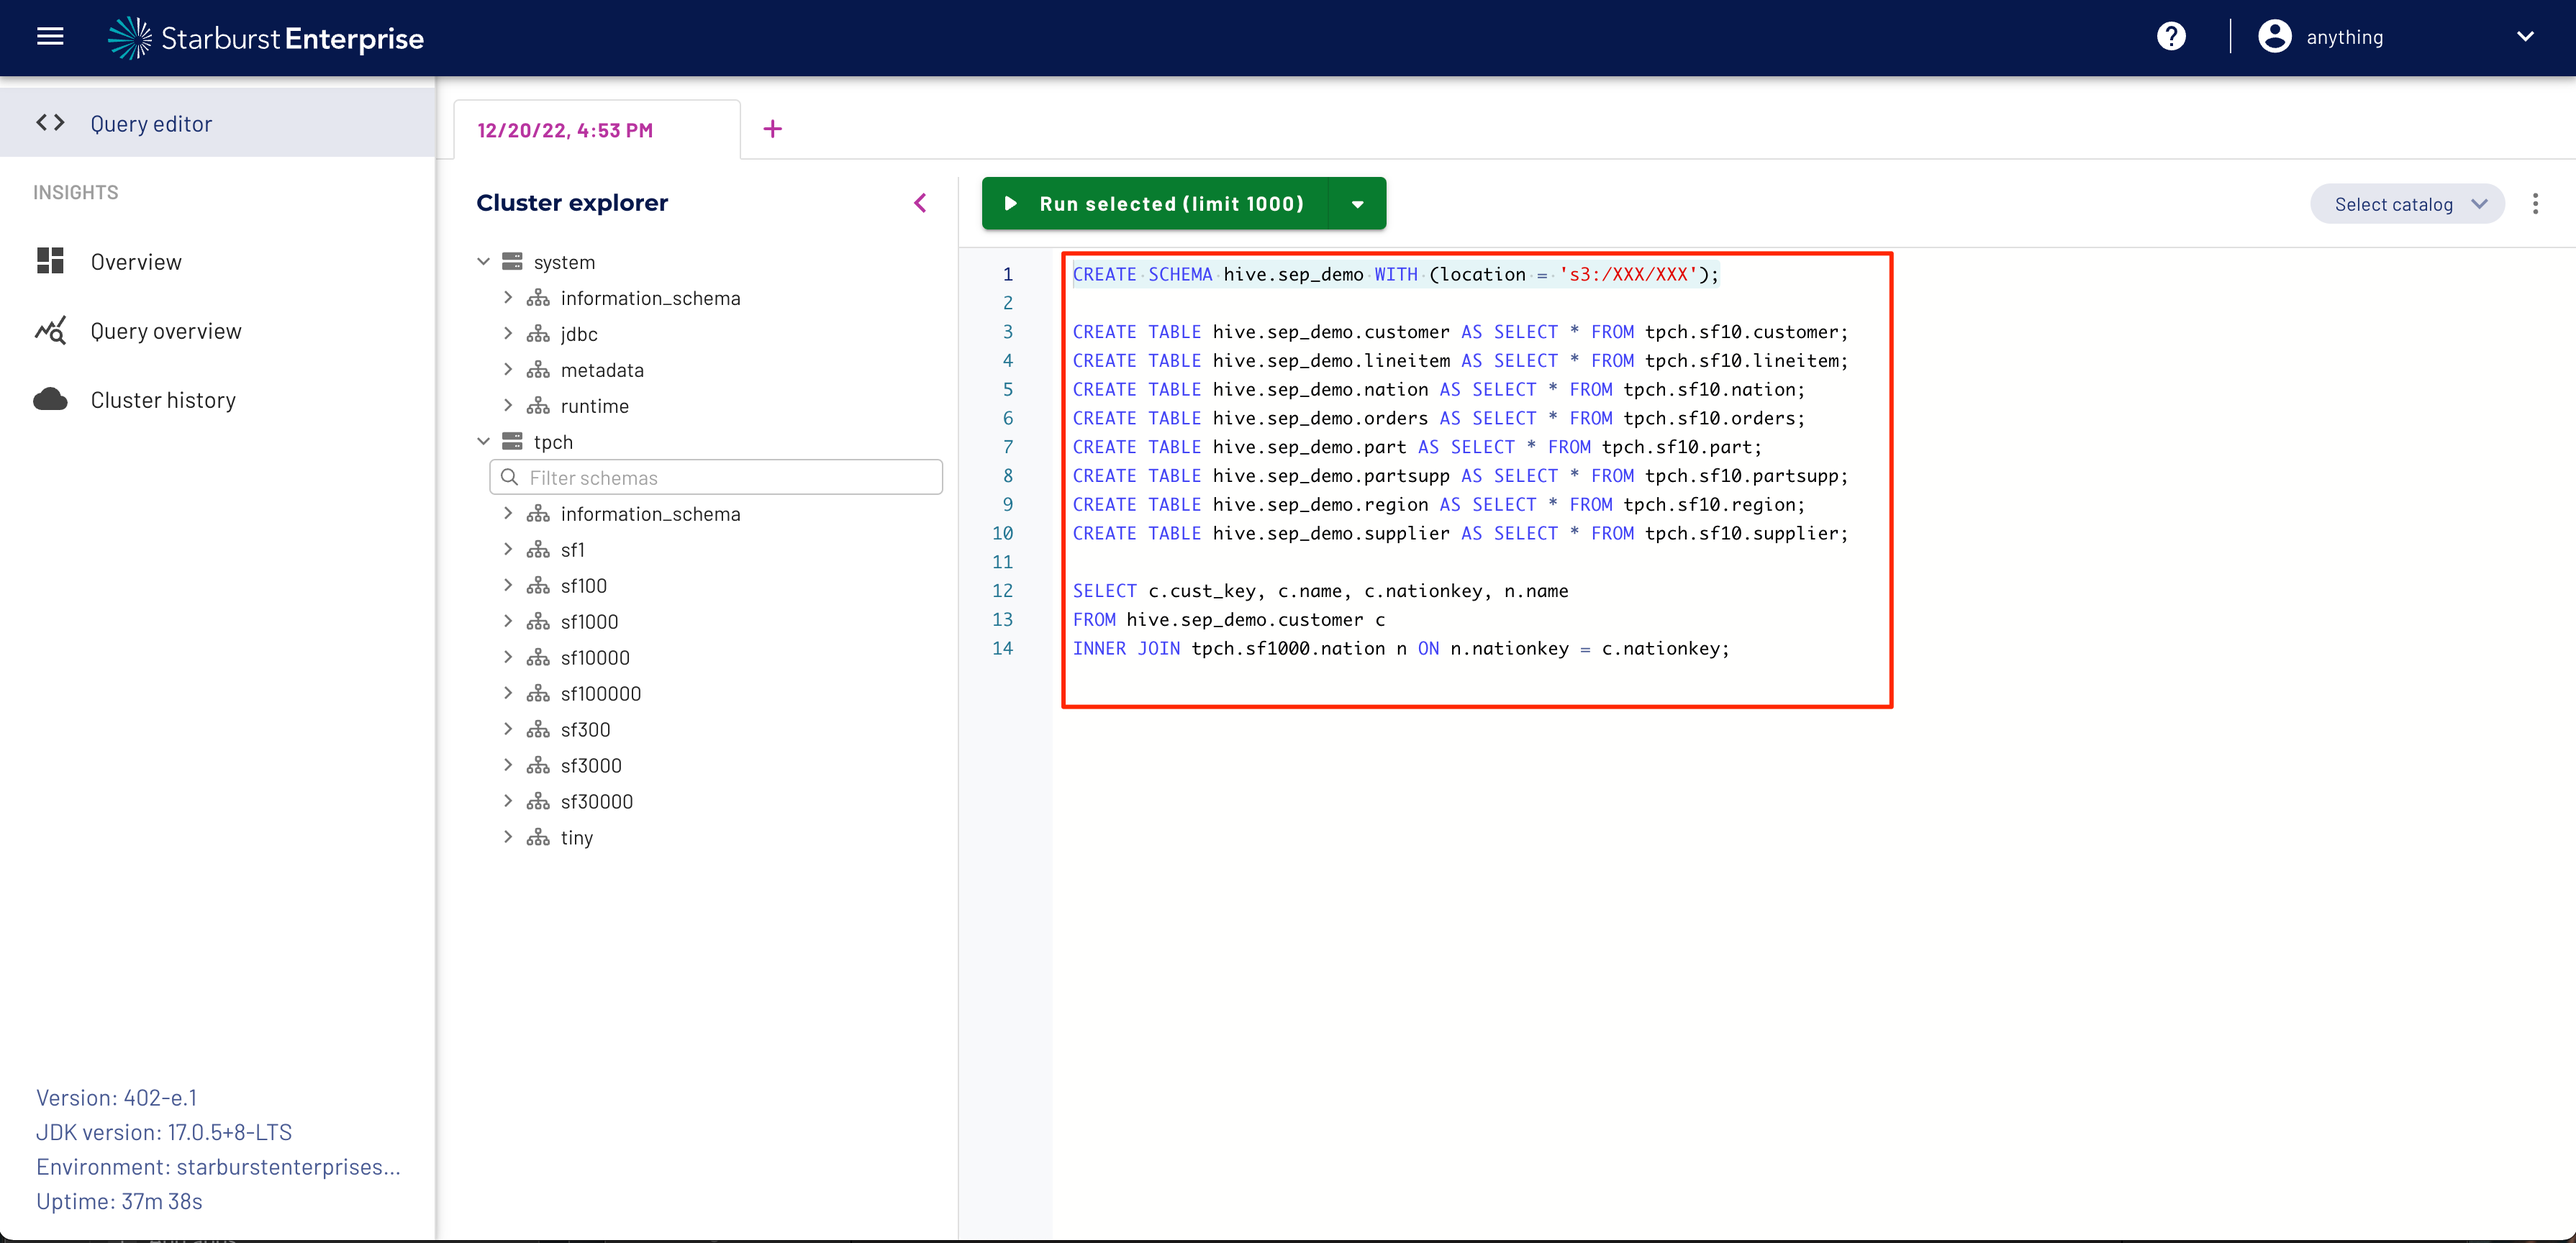
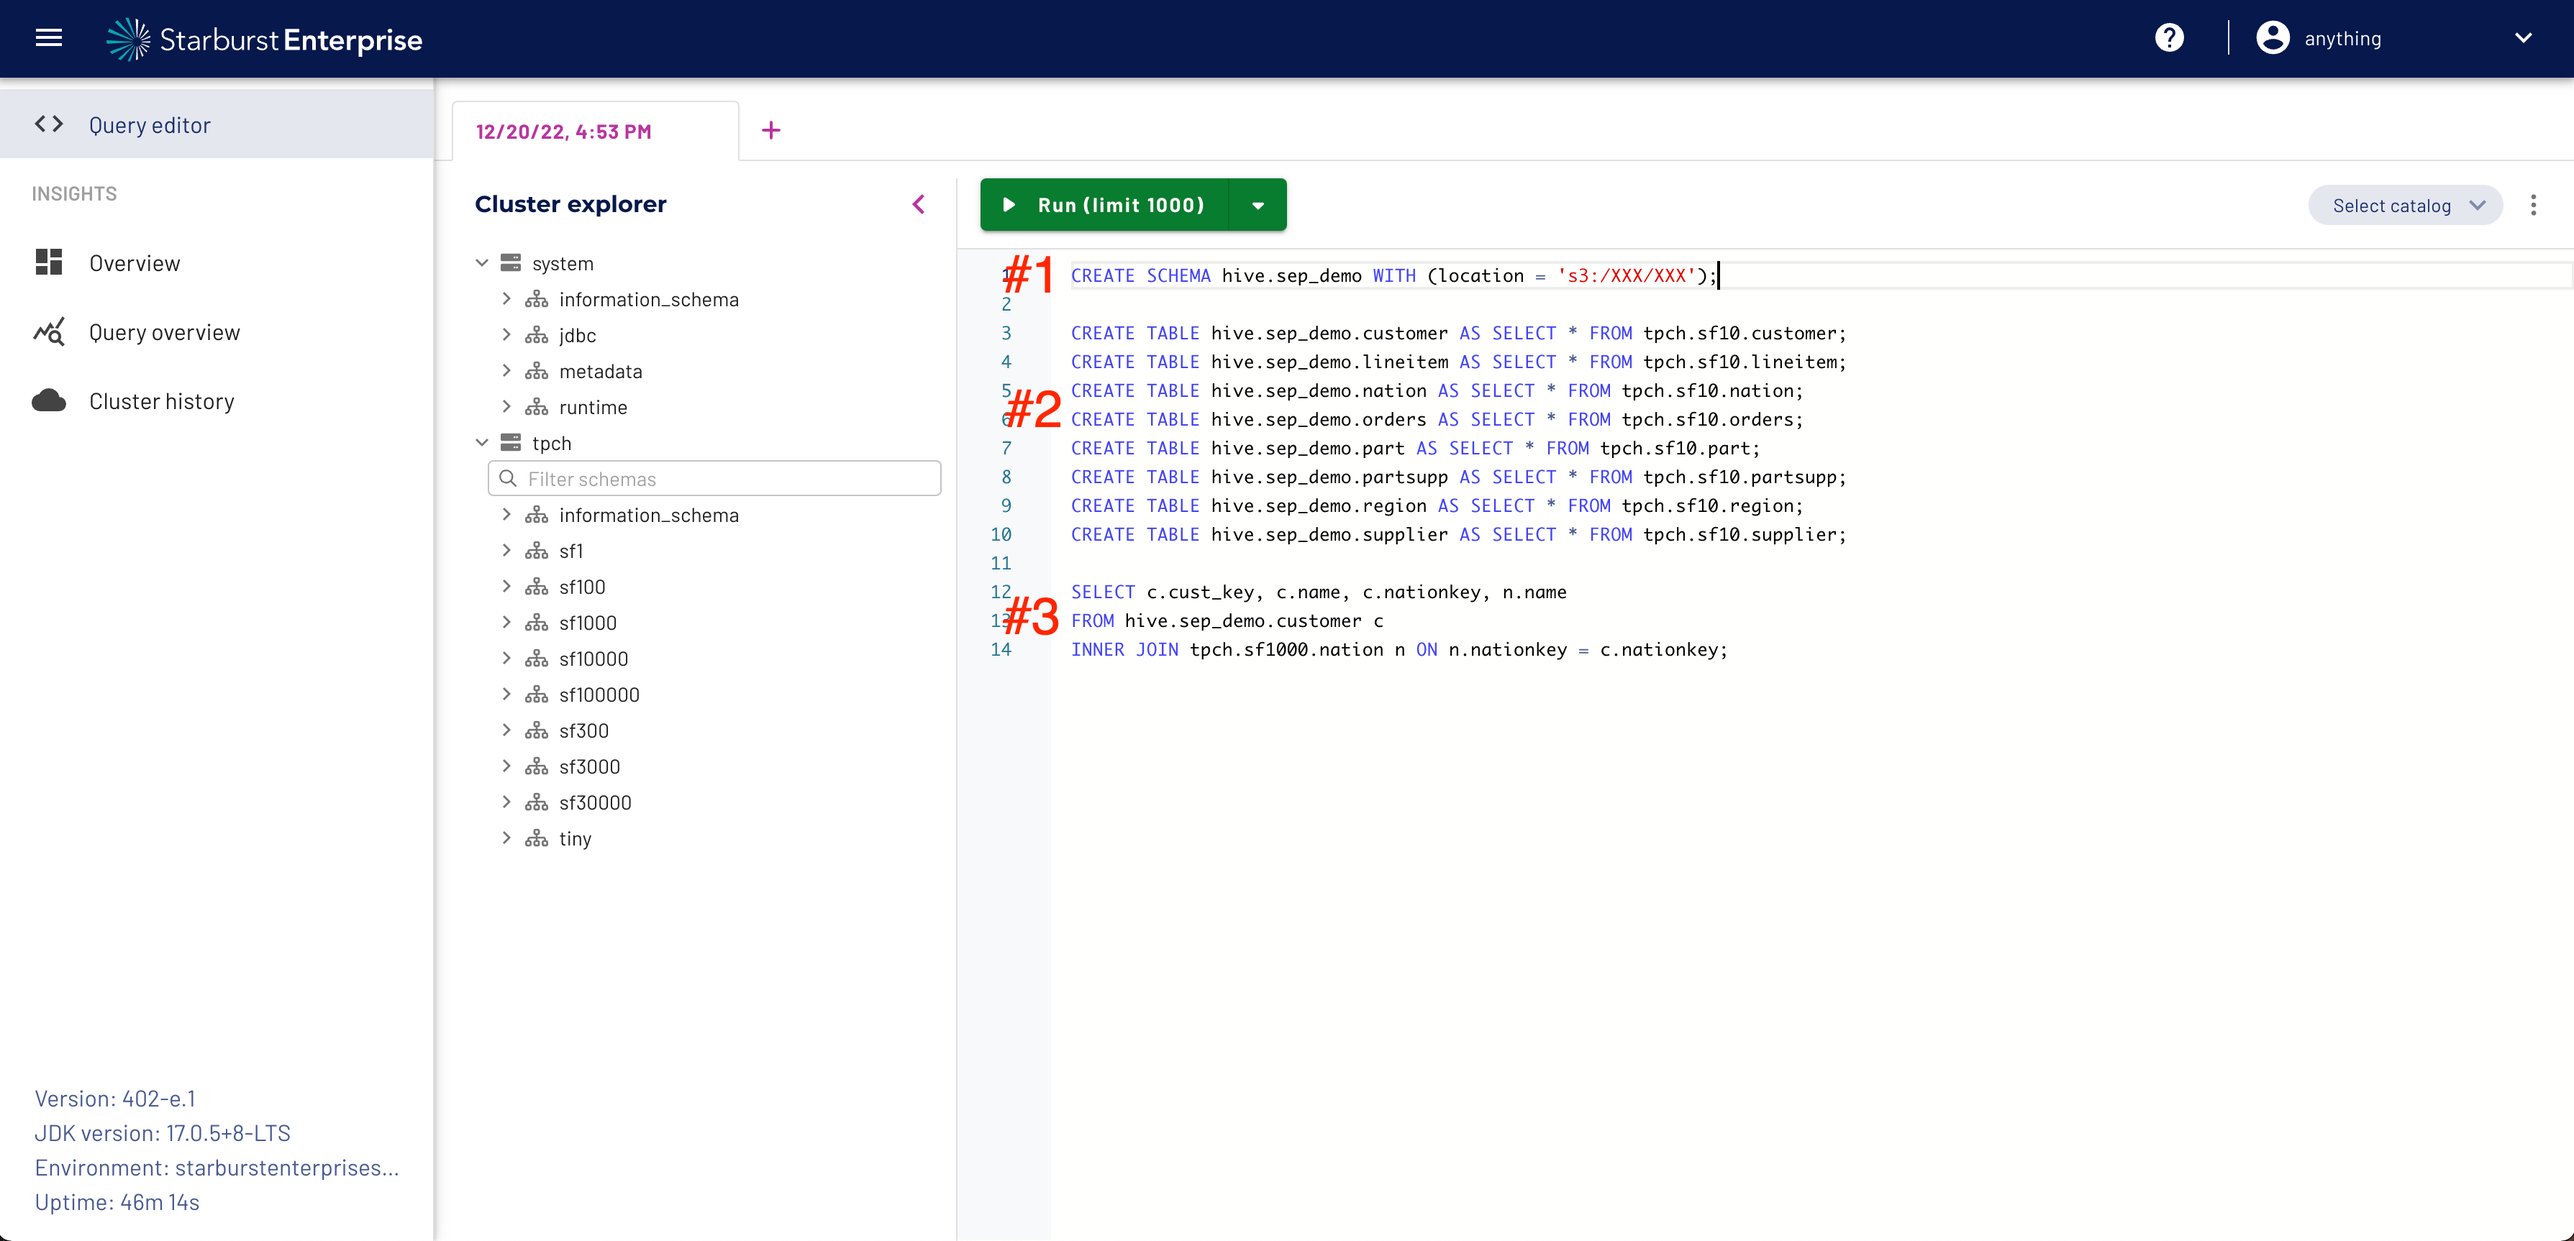
Updated queries screenshot.

diff --git a/getting-started/README.md b/getting-started/README.md
@@ -62,13 +62,13 @@ From the **Query Editor** page in the Starburst Enterprise web UI, run the follo
 ![Starburst Data Copy SQL](../images/sep_data_queries.png)
 
 
-To copy data from the TPCH data source into a new data source, you first need to create a schema in the destination data source to store the data.  Below is an example of copying data from TPCH into an S3 bucket using Starburst's Hive connector.  The location you specify will correspond to the object storage location where the data will be written.  In this example, it is an S3 bucket.  Please note that the "WITH location" property is only required when using the Hive, Iceberg or Deltalake connectors.  For all other data sources, follow the standard procedures for creating a schema in that data source.
+(1) To copy data from the TPCH data source into a new data source, you first need to create a schema in the destination data source to store the data.  Below is an example of copying data from TPCH into an S3 bucket using Starburst's Hive connector.  The location you specify will correspond to the object storage location where the data will be written.  In this example, it is an S3 bucket.  Please note that the "WITH location" property is only required when using the Hive, Iceberg or Deltalake connectors.  For all other data sources, follow the standard procedures for creating a schema in that data source.
 ````
 CREATE SCHEMA hive.sep_demo WITH (location = 's3:/XXX/XXX');
 ````
 
 
-Now that the schema exists, you can start copying over the TPCH tables using standard ANSI SQL.
+(2) Now that the schema exists, you can start copying over the TPCH tables using standard ANSI SQL.
 ````
 CREATE TABLE hive.sep_demo.customer AS SELECT * FROM tpch.sf10.customer;
 CREATE TABLE hive.sep_demo.lineitem AS SELECT * FROM tpch.sf10.lineitem;
@@ -81,7 +81,7 @@ CREATE TABLE hive.sep_demo.supplier AS SELECT * FROM tpch.sf10.supplier;
 ````
 
 
-You now have the same data in both the “hive” and “tpch” catalogs. To join data between the 2 catalogs, all you need to do is specify the schema and table name for each table in your FROM clause. An example query is shown below.  Please note that when running queries through Starburst, it is recommended to include the full path to the table (i.e. \<catalog\>.\<schema\>.\<table\>) so that you can query across catalogs.
+(3) You now have the same data in both the “hive” and “tpch” catalogs. To join data between the 2 catalogs, all you need to do is specify the schema and table name for each table in your FROM clause. An example query is shown below.  Please note that when running queries through Starburst, it is recommended to include the full path to the table (i.e. \<catalog\>.\<schema\>.\<table\>) so that you can query across catalogs.
 ````
 SELECT c.cust_key, c.name, c.nationkey, n.name
 FROM hive.sep_demo.customer c
